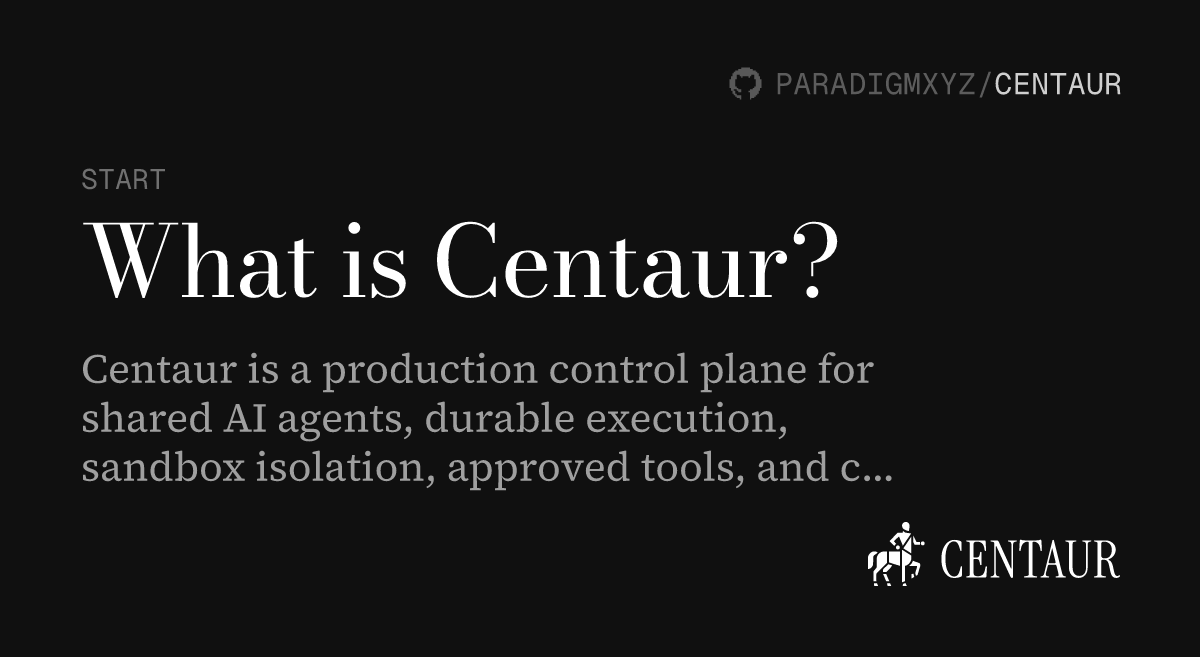
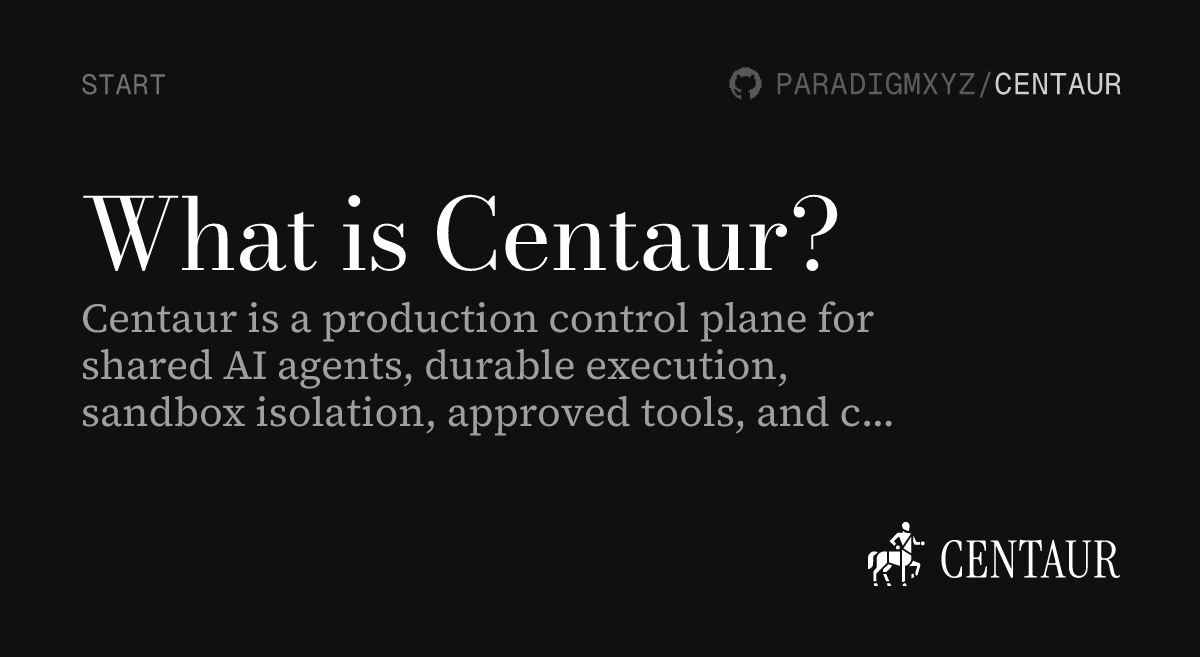
docs(og): tighten OG card template + refresh example previews
- Align CATEGORY eyebrow with top-right paradigmxyz/centaur label
- Title letter-spacing -0.02em -> -0.03em (-1%)
- Description letter-spacing 0em -> -0.02em (-2%)
- Move title + description up together and tighten gap between them
- Ensure 3-line descriptions clear the centaur silhouette
- Refresh .github/og-examples/*.png with the new layout

Changed region(s): [[0.0617, 0.2435, 0.74, 0.761], [0.0617, 0.0913, 0.1233, 0.1522]]

diff --git a/docs/scripts/build-og.ts b/docs/scripts/build-og.ts
@@ -225,40 +225,46 @@ function wrapText(text: string, maxChars: number, maxLines: number): string[] {
 }
 
 // Layout constants for the left content stack inside the 1200x657 card.
-// Positions are computed so the (eyebrow + title + description) block is
-// vertically centered around CENTER_Y. The 0.78 ASCENT_RATIO converts each
-// line's visual top (its "box") into the baseline that SVG y= anchors to.
+//
+// The eyebrow is pinned at the top of the card on the same baseline as
+// the top-right `PARADIGMXYZ/CENTAUR` label so the two header rows read
+// as a single horizontal band. Title + description hang below from a
+// default first-title baseline; if the description would crowd the
+// centaur silhouette in the bottom-right we lift the whole title/desc
+// block upward until the last description baseline fits within
+// DESC_BASELINE_MAX_Y.
 const LEFT_X = 81
-const CENTER_Y = 328.5
-const EYEBROW_H = 30
+const EYEBROW_BASELINE_Y = 94.18
+const DEFAULT_TITLE_BASELINE_Y = 270
 const TITLE_LINE_H = 89
-const DESC_LINE_H = 49
-const GAP_EYEBROW_TITLE = 32
-const GAP_TITLE_DESC = 28
-const ASCENT_RATIO = 0.78
+const DESC_LINE_H = 47
+const TITLE_TO_DESC_BASELINE_GAP = 62
+const DESC_BASELINE_MAX_Y = 490
 
 function computeStackY(nTitle: number, nDesc: number) {
-  const titleBlock = nTitle * TITLE_LINE_H
-  const descBlock = nDesc > 0 ? GAP_TITLE_DESC + nDesc * DESC_LINE_H : 0
-  const totalH = EYEBROW_H + GAP_EYEBROW_TITLE + titleBlock + descBlock
-  const topY = CENTER_Y - totalH / 2
+  const titleStackHeight = Math.max(0, nTitle - 1) * TITLE_LINE_H
+  const descStackHeight =
+    nDesc > 0 ? TITLE_TO_DESC_BASELINE_GAP + Math.max(0, nDesc - 1) * DESC_LINE_H : 0
 
-  const titleTop = topY + EYEBROW_H + GAP_EYEBROW_TITLE
-  const firstTitleBaseline = titleTop + TITLE_LINE_H * ASCENT_RATIO
+  let firstTitleBaseline = DEFAULT_TITLE_BASELINE_Y
+  const projectedLastDescBaseline = firstTitleBaseline + titleStackHeight + descStackHeight
+  if (nDesc > 0 && projectedLastDescBaseline > DESC_BASELINE_MAX_Y) {
+    firstTitleBaseline -= projectedLastDescBaseline - DESC_BASELINE_MAX_Y
+  }
+
   const titleBaselines = Array.from(
     { length: nTitle },
     (_, i) => firstTitleBaseline + i * TITLE_LINE_H,
   )
-  const titleBottom = titleTop + titleBlock
+  const lastTitleBaseline =
+    titleBaselines[titleBaselines.length - 1] ?? firstTitleBaseline
+  const firstDescBaseline = lastTitleBaseline + TITLE_TO_DESC_BASELINE_GAP
+  const descBaselines = Array.from(
+    { length: nDesc },
+    (_, i) => firstDescBaseline + i * DESC_LINE_H,
+  )
 
-  const descBaselines = Array.from({ length: nDesc }, (_, i) => {
-    const descTop = titleBottom + GAP_TITLE_DESC
-    return descTop + DESC_LINE_H * ASCENT_RATIO + i * DESC_LINE_H
-  })
-
-  const eyebrowBaseline = topY + EYEBROW_H * ASCENT_RATIO
-
-  return { eyebrowBaseline, titleBaselines, descBaselines }
+  return { eyebrowBaseline: EYEBROW_BASELINE_Y, titleBaselines, descBaselines }
 }
 
 function buildSvg(